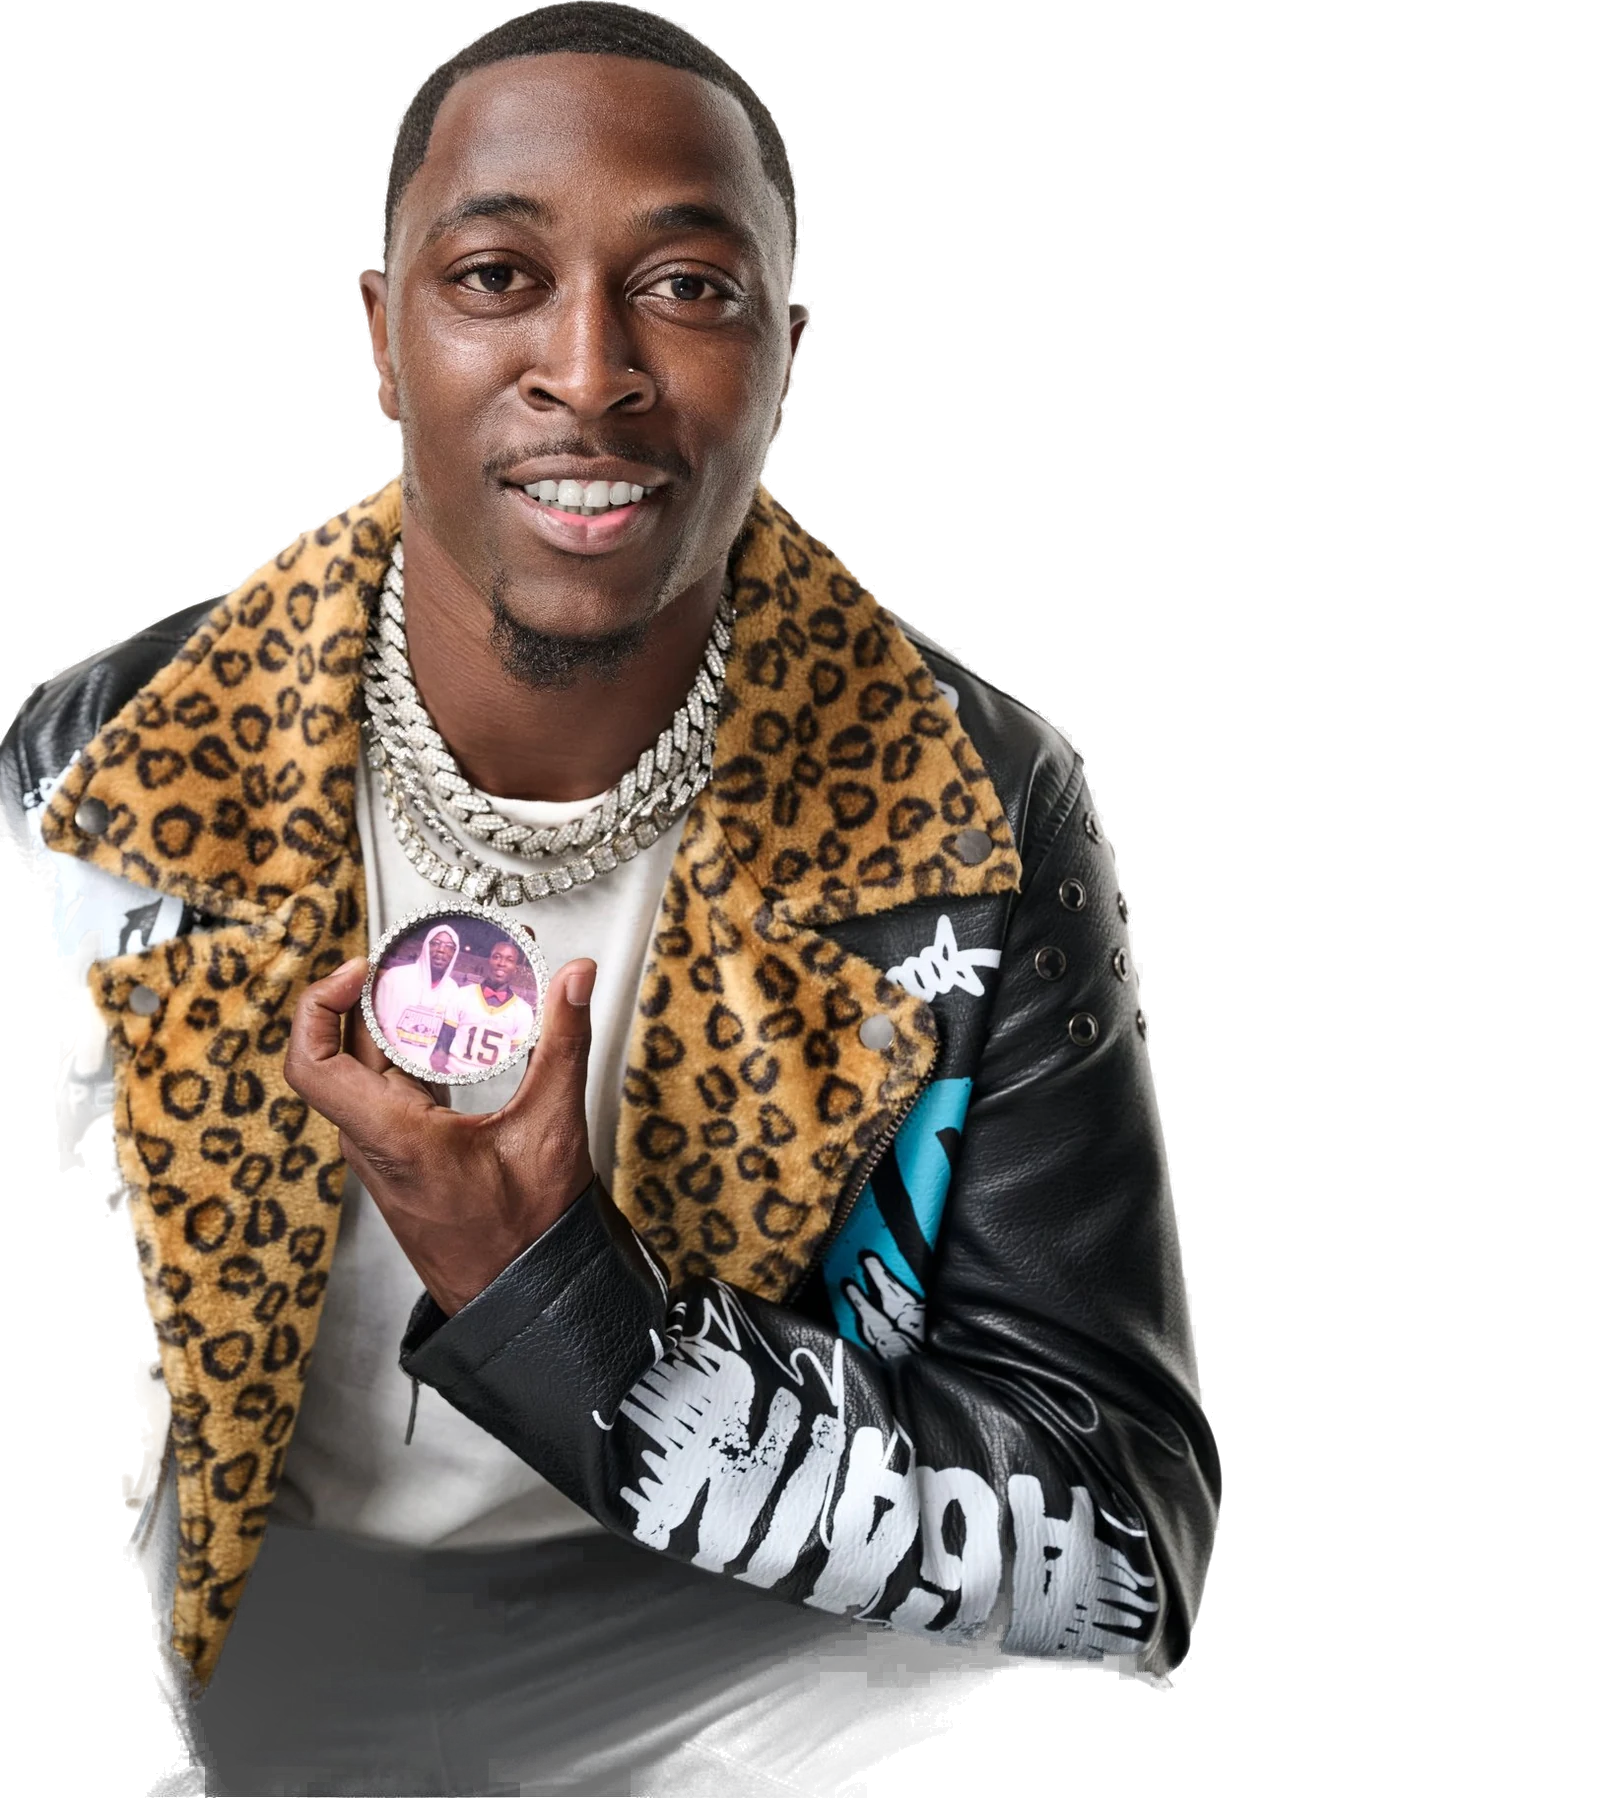
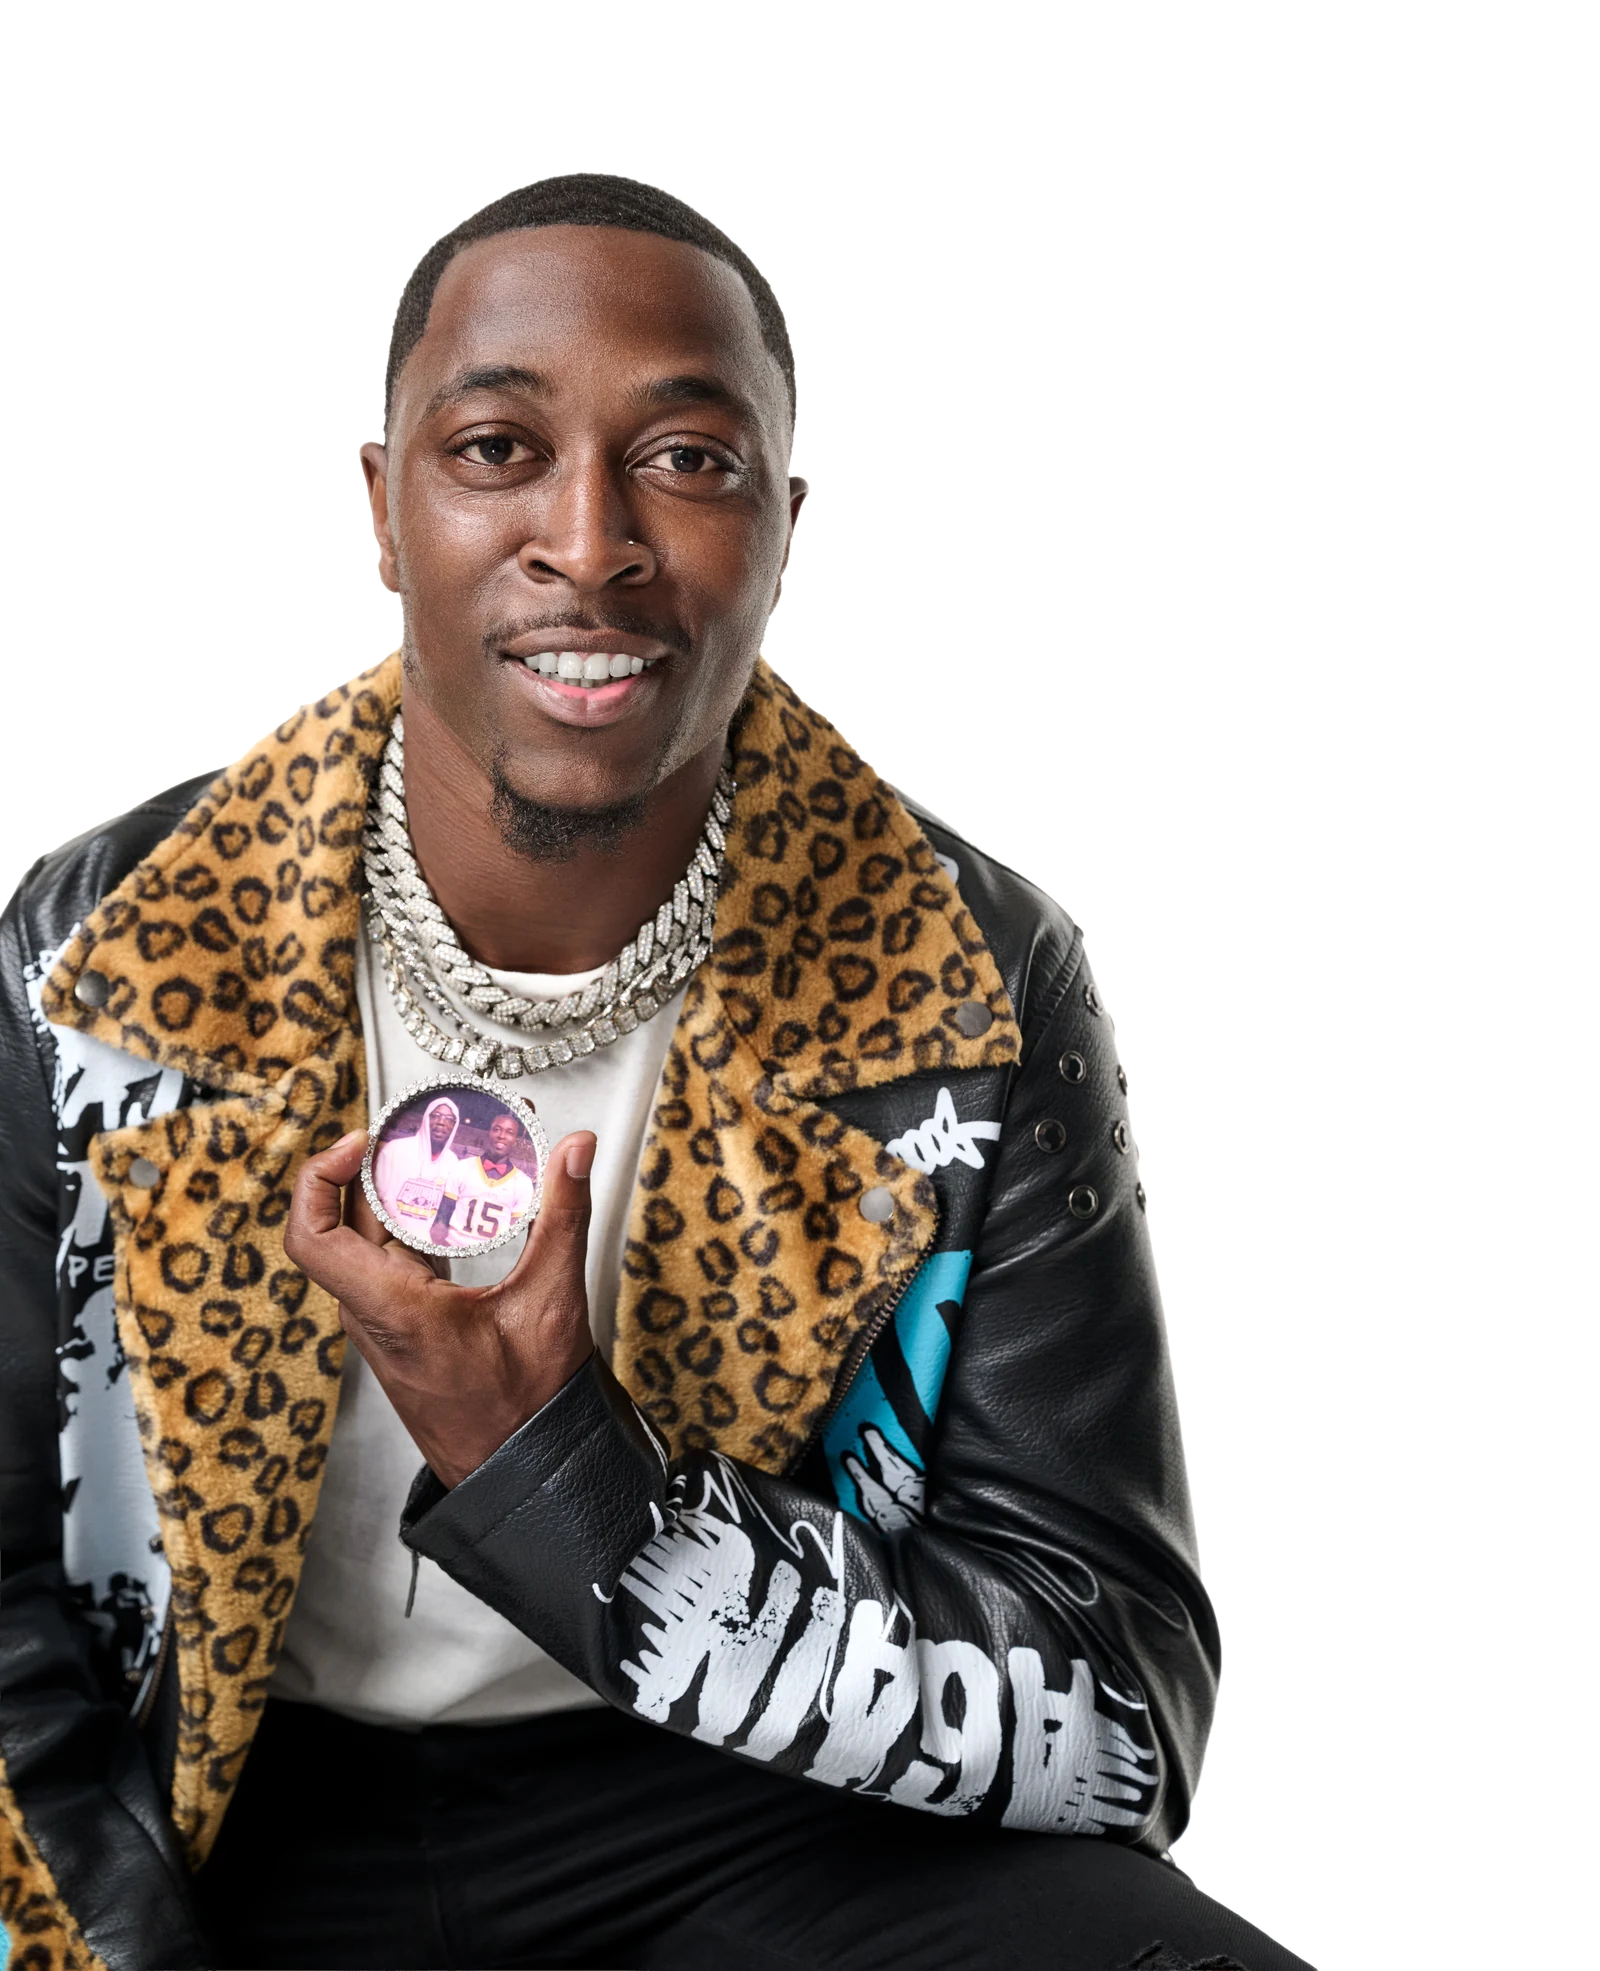
Quan.B: full leopard-jacket cut-out, anchored bottom left
Claude-Session: https://claude.ai/code/session_012U18n2jx8i57thyH5Nwtnb

diff --git a/features/quan-b/index.html b/features/quan-b/index.html
@@ -308,7 +308,7 @@ footer p span{color:#b91732}
 
     <div class="wrap wide">
       <div class="pq il boxed">
-        <figure><span class="crop"><img loading="lazy" src="/features/quan-b/img/leopard_c.webp" alt="Quan.B in a leopard-collar jacket, holding a memorial pin" style="object-position:50% 100%;transform-origin:50% 100%;transform:translate(0px, 30px) scale(1.1)"></span></figure>
+        <figure><span class="crop"><img loading="lazy" src="/features/quan-b/img/leopard_c.webp" alt="Quan.B in a leopard-collar jacket, holding a memorial pin" style="object-position:0% 100%;transform-origin:0% 100%;transform:translate(-50px, 34px) scale(1.12)"></span></figure>
         <div class="q"><blockquote class="long" style="text-wrap:balance">“That’s what I always looked forward to, being that front guy, being in front of people and giving them that energy.”</blockquote><cite>Quan.B</cite></div>
       </div>
     </div>

diff --git a/_build/feature-template/quan-b-source.html b/_build/feature-template/quan-b-source.html
@@ -301,7 +301,7 @@ footer p span{color:#b91732}
 
     <div class="wrap wide">
       <div class="pq il boxed">
-        <figure><span class="crop"><img src="{{leopard_c}}" alt="Quan.B in a leopard-collar jacket, holding a memorial pin" style="object-position:50% 100%;transform-origin:50% 100%;transform:translate(0px, 30px) scale(1.1)"></span></figure>
+        <figure><span class="crop"><img src="{{leopard_c}}" alt="Quan.B in a leopard-collar jacket, holding a memorial pin" style="object-position:0% 100%;transform-origin:0% 100%;transform:translate(-50px, 34px) scale(1.12)"></span></figure>
         <div class="q"><blockquote class="long" style="text-wrap:balance">“That’s what I always looked forward to, being that front guy, being in front of people and giving them that energy.”</blockquote><cite>Quan.B</cite></div>
       </div>
     </div>
